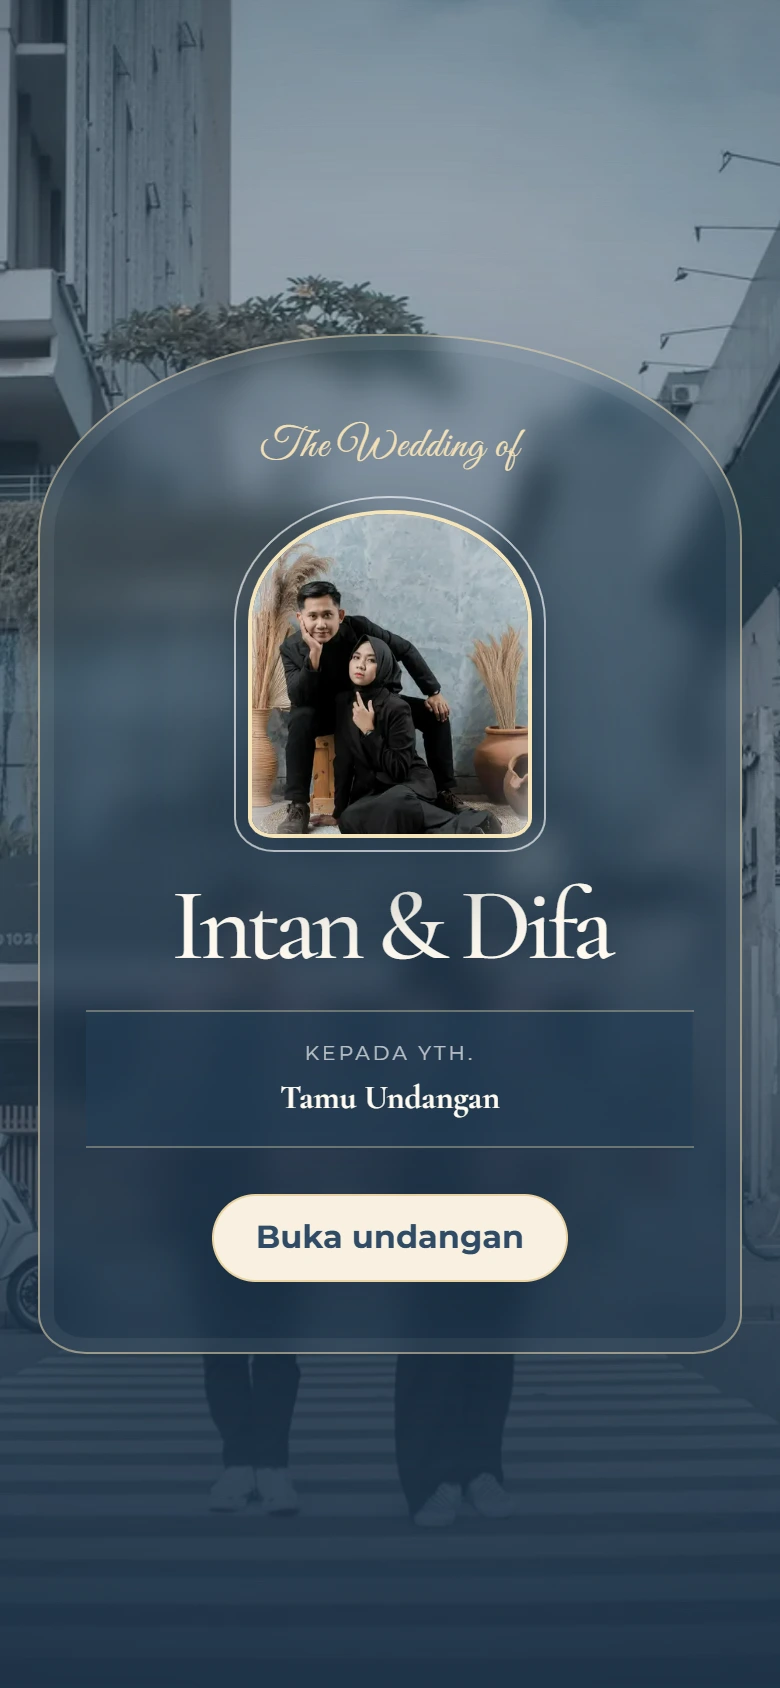
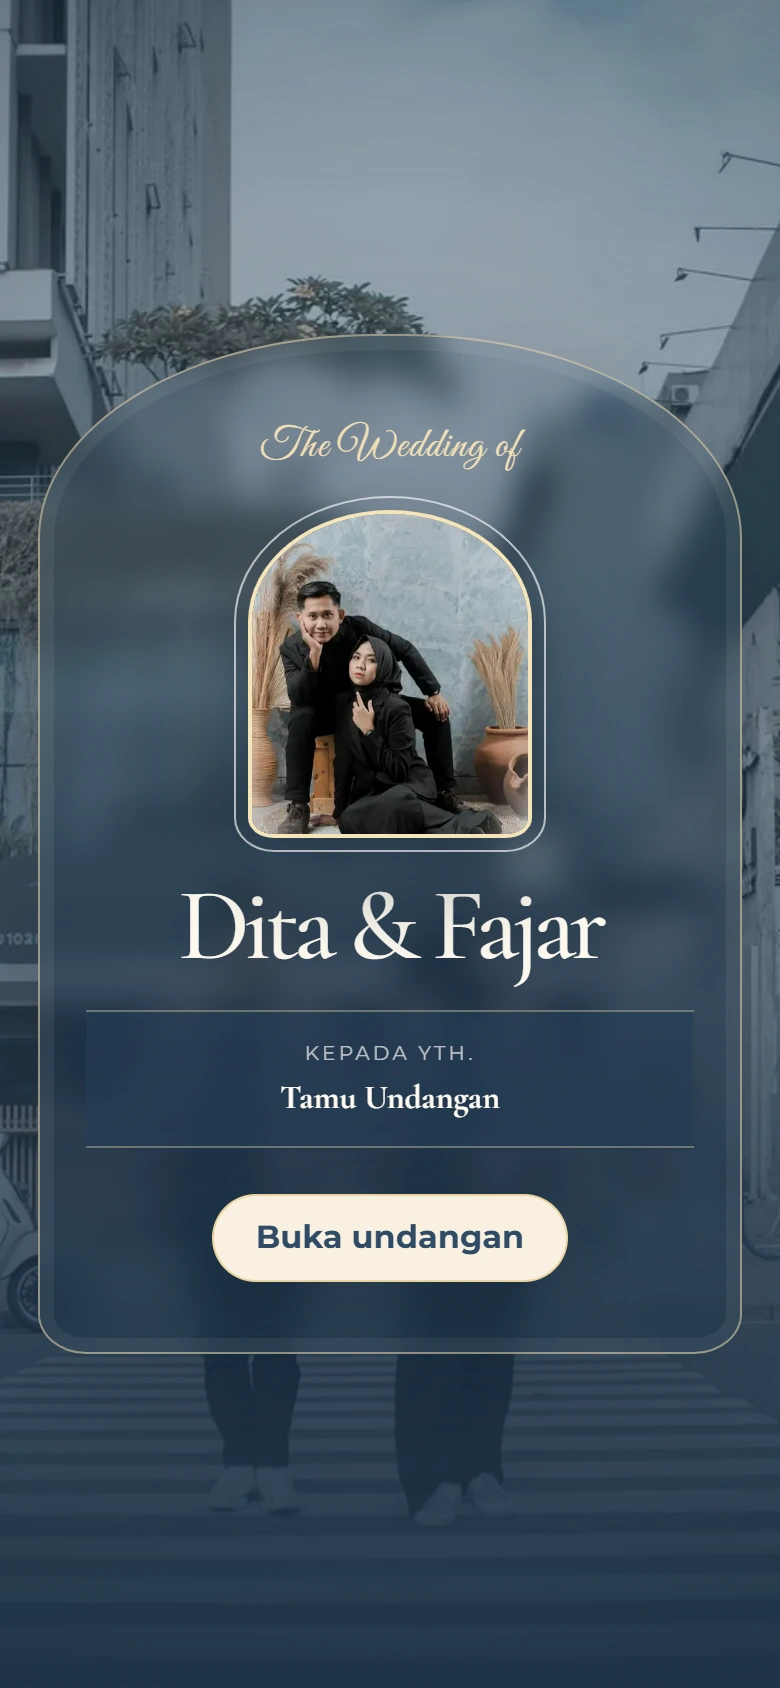
feat(templates): update Greeny Flowers, Pink Vibes, and Blue Garden to Dita & Fajar with updated slug

Changed region(s): [[0.2154, 0.5237, 0.8, 0.5853]]

diff --git a/lib/demo.ts b/lib/demo.ts
@@ -2,35 +2,35 @@ import type { Greeting, GuestRSVP, Invitation } from "@/lib/types";
 
 export const demoInvitation: Invitation = {
   id: "00000000-0000-0000-0000-000000000101",
-  slug: "intan-dan-difa",
+  slug: "greeny-flowers",
   status: "published",
-  bride_name: "Intan",
-  bride_short_name: "Intan",
-  bride_parents: "Putri Alm. Bapak Soma & Ibu Heny",
+  bride_name: "Dita Maharani Putri",
+  bride_short_name: "Dita",
+  bride_parents: "Putri Pertama dari Bapak Anas Rifai & Ibu Kholifah",
   bride_photo_path: "/media/sunda-vibes/The Bride.jpg",
-  groom_name: "Difa",
-  groom_short_name: "Difa",
-  groom_parents: "Putra Bapak Sulaiman & Ibu Fitrotunisa",
+  groom_name: "Fajar Sidik",
+  groom_short_name: "Fajar",
+  groom_parents: "Putra Kedua dari Bapak M. Dawam & (Almh) Ibu Dewi Sudarwati",
   groom_photo_path: "/media/sunda-vibes/The Groom.jpg",
   event_date: "2026-12-12",
-  ceremony_time: "08.00 WIB",
-  reception_time: "11.00–14.00 WIB",
-  venue_name: "Gedung Islamic Centre Bekasi",
-  venue_address: "Jl. Ahmad Yani No.22, RT.005/RW.002, Marga Jaya, Kec. Bekasi Sel., Kota Bks, Jawa Barat 17141",
-  maps_url: "https://share.google/OUegQc3AUuqfbTELX",
+  ceremony_time: "08.00 WIB - Selesai",
+  reception_time: "11.00 WIB - Selesai",
+  venue_name: "Waroeng Djoglo Grand Ballroom",
+  venue_address: "Jl. Joglo Raya No. 45, Kembangan, Jakarta Barat",
+  maps_url: "https://maps.google.com/?q=Waroeng+Djoglo",
   opening_text:
-    "Dengan penuh syukur, kami mengundang Anda untuk hadir dan menjadi bagian dari hari bahagia kami.",
+    "Tanpa mengurangi rasa hormat, kami mengundang Bapak/Ibu/Saudara/i serta kerabat sekalian untuk menghadiri acara pernikahan kami.",
   quote_text:
     "Dan di antara tanda-tanda (kebesaran)-Nya ialah Dia menciptakan pasangan-pasangan untukmu dari jenismu sendiri, agar kamu cenderung dan merasa tenteram kepadanya, dan Dia menjadikan di antaramu rasa kasih dan sayang. Sesungguhnya pada yang demikian itu benar-benar terdapat tanda-tanda (kebesaran Allah) bagi kaum yang berpikir.",
-  quote_source: "(Qs. Ar-Rum: 21)",
+  quote_source: "(QS. Ar-Rum : 21)",
   story: [
     {
-      year: "2023",
+      year: "2022",
       title: "Awal Cerita",
       text: "Berawal dari pertemuan sederhana, kami saling mengenal dan mulai berbagi banyak cerita. Tanpa disadari, kebersamaan itu tumbuh menjadi rasa nyaman yang semakin kuat dari hari ke hari.",
     },
     {
-      year: "2025",
+      year: "2024",
       title: "Lamaran",
       text: "Dengan niat yang tulus dan restu keluarga, kami memutuskan untuk melangkah ke tahap yang lebih serius. Momen lamaran menjadi awal dari perjalanan baru yang penuh harapan dan doa baik.",
     },
@@ -53,11 +53,15 @@ export const demoInvitation: Invitation = {
     "/media/sunda-vibes/The Groom.jpg",
   ],
   music_path: "/media/elegant/Bergema Selamanya.mp4",
-  gift_info: { bank: "BCA", account_number: "1234567890", account_name: "Intan" },
+  gift_info: {
+    bank: "BCA",
+    account_number: "7125091428",
+    account_name: "Fajar Sidik",
+  },
   theme_overrides: {},
   closing_text:
     "Merupakan suatu kehormatan dan kebahagiaan bagi kami, apabila Bapak/Ibu/Saudara/i berkenan hadir dan memberikan doa restu. Atas kehadiran dan doa restunya, kami mengucapkan terima kasih.",
-  closing_greeting: "Wassalamu'alaikum Wr. Wb",
+  closing_greeting: "Kami yang berbahagia, Dita & Fajar",
   template: {
     id: "00000000-0000-0000-0000-000000000001",
     slug: "greeny-flowers",
@@ -486,6 +490,16 @@ export const terracottaWarmthDemoInvitation: Invitation = {
   },
 };
 
+export const legacyIntanDifaDemoInvitation: Invitation = {
+  ...demoInvitation,
+  slug: "intan-dan-difa",
+};
+
+export const ditaDanFajarDemoInvitation: Invitation = {
+  ...demoInvitation,
+  slug: "dita-dan-fajar",
+};
+
 export const demoInvitations = [
   demoInvitation,
   pinkVibesDemoInvitation,
@@ -501,6 +515,8 @@ export const demoInvitations = [
   dustyRoseDemoInvitation,
   sageBotanicalDemoInvitation,
   terracottaWarmthDemoInvitation,
+  legacyIntanDifaDemoInvitation,
+  ditaDanFajarDemoInvitation,
 ];
 
 export const demoGreetings: Greeting[] = [

diff --git a/lib/invitations.ts b/lib/invitations.ts
@@ -18,25 +18,56 @@ const invitationSelect = `
 
 export async function getInvitation(slug: string): Promise<Invitation | null> {
   const supabase = getSupabase();
-  if (!supabase) return demoInvitations.find((invitation) => invitation.slug === slug) ?? null;
+  if (!supabase) {
+    return (
+      demoInvitations.find(
+        (invitation) =>
+          invitation.slug === slug ||
+          (slug === "greeny-flowers" && invitation.template?.slug === "greeny-flowers") ||
+          (slug === "intan-dan-difa" && invitation.template?.slug === "greeny-flowers"),
+      ) ?? null
+    );
+  }
 
-  const { data, error } = await supabase
-    .from("invitations")
-    .select(invitationSelect)
-    .eq("slug", slug)
-    .eq("status", "published")
-    .single();
+  // Support both "greeny-flowers" and legacy "intan-dan-difa"
+  const candidateSlugs =
+    slug === "greeny-flowers"
+      ? ["greeny-flowers", "intan-dan-difa"]
+      : slug === "intan-dan-difa"
+        ? ["intan-dan-difa", "greeny-flowers"]
+        : [slug];
+
+  let record: any = null;
+  for (const s of candidateSlugs) {
+    const { data, error } = await supabase
+      .from("invitations")
+      .select(invitationSelect)
+      .eq("slug", s)
+      .eq("status", "published")
+      .single();
+
+    if (!error && data && data.template) {
+      record = data;
+      break;
+    }
+  }
 
   // Inactive catalogue templates can be hidden by RLS while the published
   // invitation is still readable. Use the known demo instead of rendering a
   // null template relation; custom invitations without a demo stay unavailable.
-  if (error || !data || !data.template) {
-    return demoInvitations.find((invitation) => invitation.slug === slug) ?? null;
+  if (!record) {
+    return (
+      demoInvitations.find(
+        (invitation) =>
+          invitation.slug === slug ||
+          (slug === "greeny-flowers" && invitation.template?.slug === "greeny-flowers") ||
+          (slug === "intan-dan-difa" && invitation.template?.slug === "greeny-flowers"),
+      ) ?? null
+    );
   }
-  const invitation = data as unknown as Invitation;
+  const invitation = record as unknown as Invitation;
   const preview = demoInvitations.find(
     (demo) =>
-      demo.slug === invitation.slug &&
       demo.template.slug === invitation.template.slug &&
       ["greeny-flowers", "pink-vibes", "blue-garden"].includes(demo.template.slug),
   );

diff --git a/app/page.tsx b/app/page.tsx
@@ -41,7 +41,7 @@ const fallbackTemplates: CatalogTemplate[] = [
     name: "Greeny Flowers",
     description: "Nuansa hijau yang lembut, detail bunga yang hangat, dan susunan elegan untuk kisah yang terasa dekat dan personal.",
     thumbnail_path: "/media/mockups/mockup-greeny-flowers.webp",
-    preview_path: "/intan-dan-difa?to=Tamu%20Undangan",
+    preview_path: "/greeny-flowers?to=Tamu%20Undangan",
     category: "minimalis",
     price: 70000,
     promo_price: 35000,
